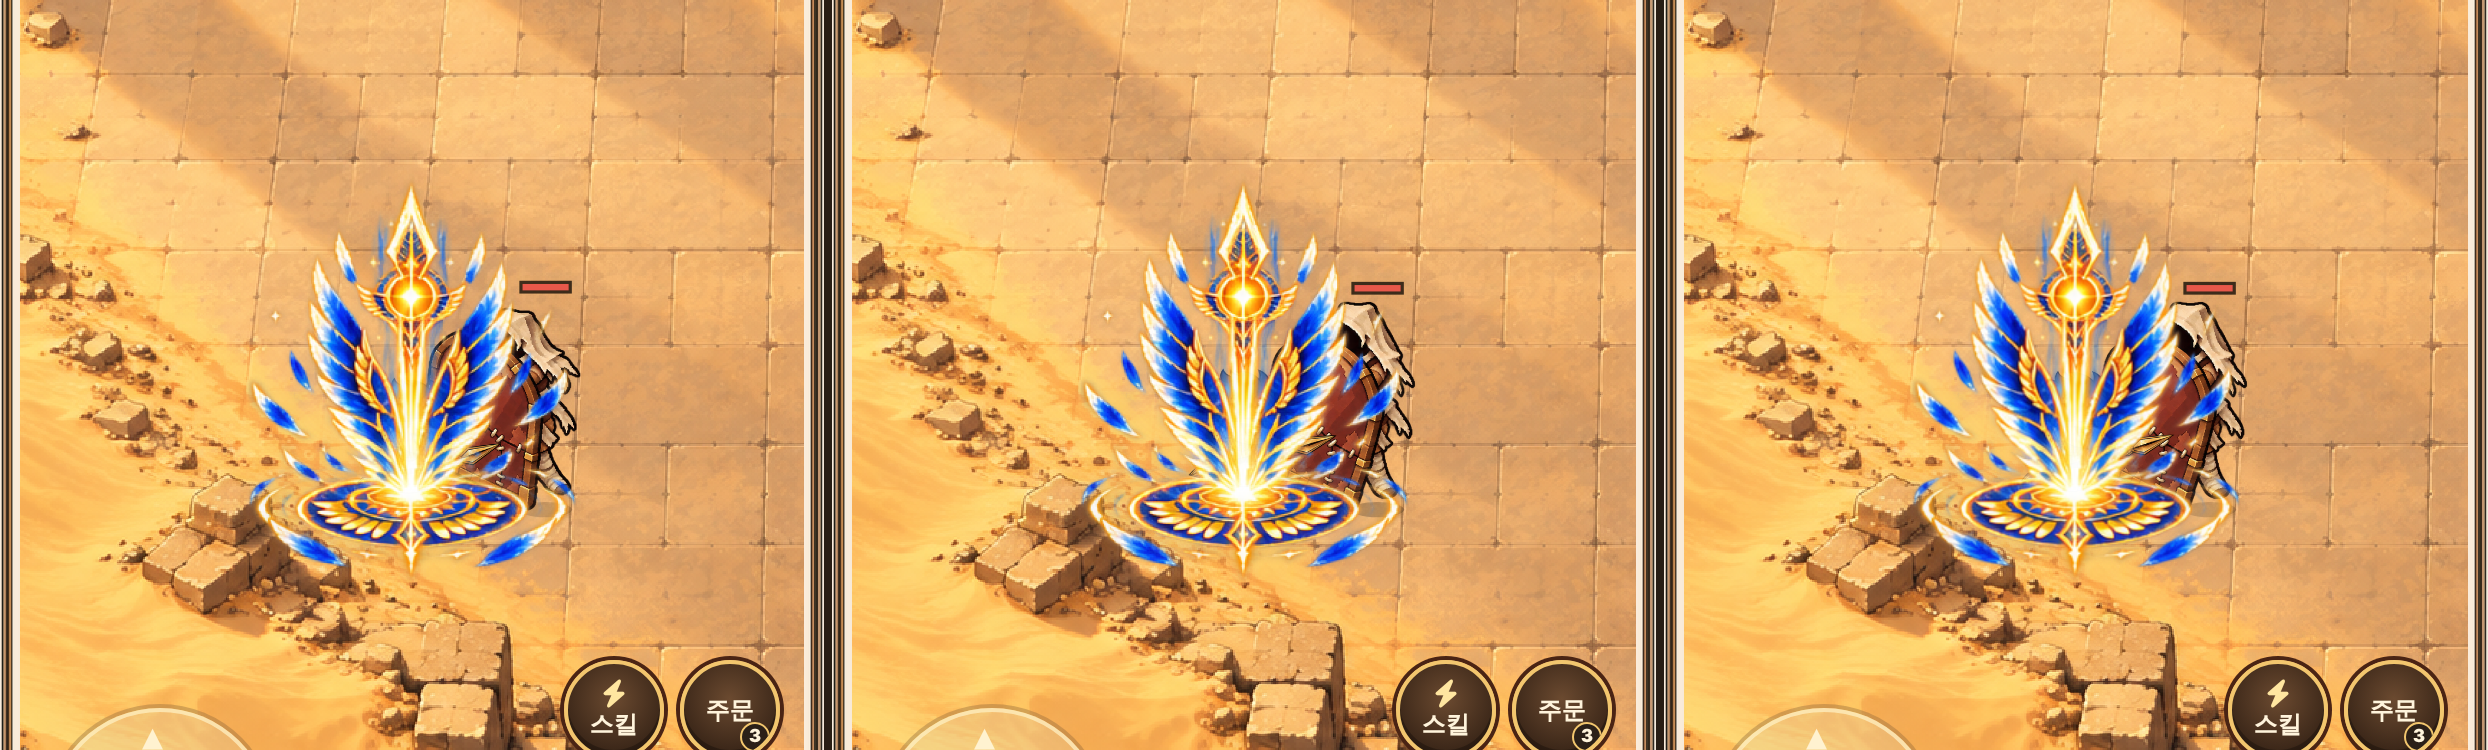
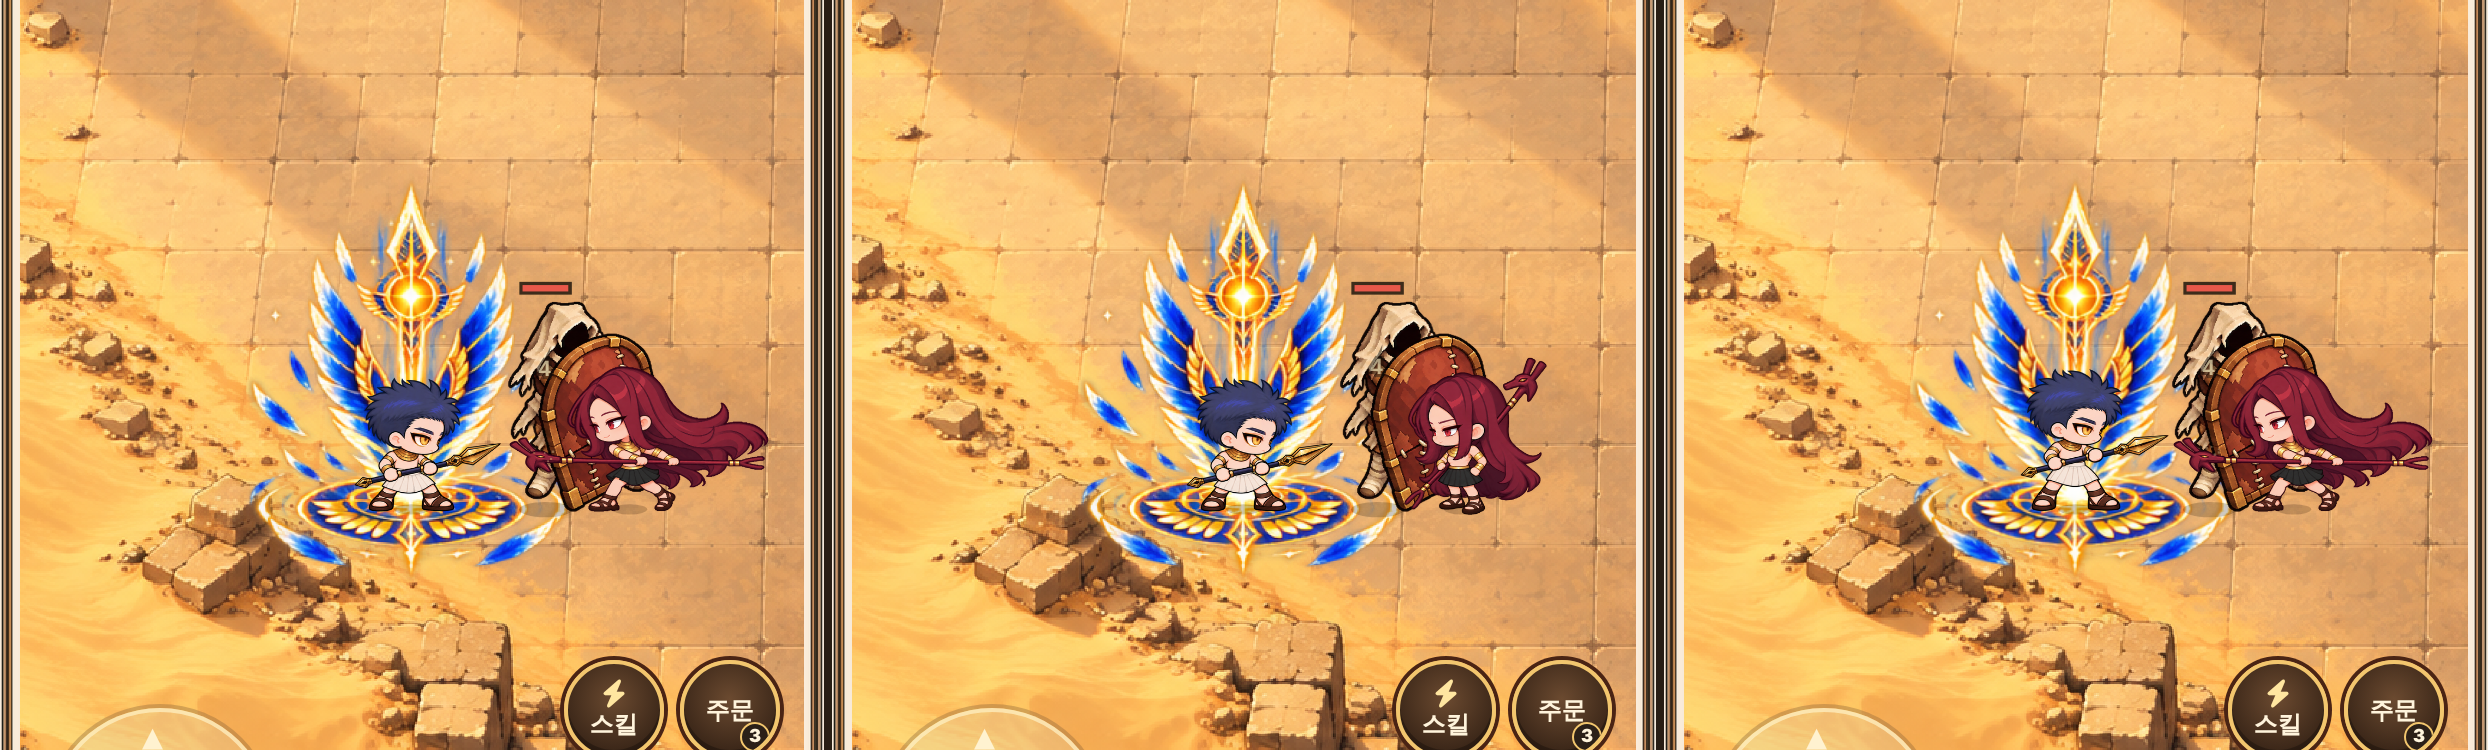
세트·호루스 궁 타격 범위를 그림의 주된 부분에 맞춤, 두 사람은 궁 위에 그림
- 타격 범위: 알파 160 이상(희미한 빛·잔광 제외) 98% 범위의 바닥 타원, 캐릭터 키 단위(fx.<who>.area)
  세트 폭 1.89·깊이 0.98, 호루스 폭 1.74·깊이 0.53(위로 솟는 날개는 높이라 제외)
- 세트 모래폭풍·호루스 충격파는 두 사람 바로 뒤 층: 몸·얼굴을 가리지 않고, 뒤에 선 것은 덮음
- 이미지 파일은 그대로(화면 표시 배율만 4배)
- 타격 범위를 겹친 실제 화면 캡처

Claude-Session: https://claude.ai/code/session_01VEprA6JeTcQVX6tKD4oAcT

Changed region(s): [[0.1238, 0.368, 0.3095, 0.736], [0.7737, 0.368, 0.9904, 0.736], [0.4333, 0.368, 0.619, 0.736]]

diff --git a/src/packs/duat/field.js b/src/packs/duat/field.js
@@ -611,13 +611,14 @@ function frontLine(o) {
 const LAND_GAP = 0.6;
 function room(o) { const h = shape(o); return (h.frontKind ? h.front || 0 : h.body || 0) * charTiles() + LAND_GAP; }
 // a 기술 around g with reach r: 'torso' / 'body' (a boss's fists) for everyone, 'shield' for Horus only (C안); else null
-function touches(o, g, r, horus = false) {
-    const a = hurtArea(o);
-    if (toTorso(a, g).d < r) return 'torso';
+// ry: an oval on the floor instead (a 궁's ring as drawn: r wide, ry deep), tested with the depth stretched to r
+function touches(o, g, r, horus = false, ry = r) {
+    const k = r / ry, a = hurtArea(o), sa = { ...a, y: g.y + (a.y - g.y) * k, ry: a.ry * k };
+    if (toTorso(sa, g).d < r) return 'torso';
     const f = frontLine(o);
     if (!f || (f.kind === 'shield' && !horus)) return null;
     const px = Math.min(Math.max(g.x, f.x0), f.x1);
-    return Math.hypot(px - g.x, f.y - g.y) < r ? f.kind : null;
+    return Math.hypot(px - g.x, (f.y - g.y) * k) < r ? f.kind : null;
 }
 // a blow's reach in front of her (the box the old check used on its middle: from just behind her feet out to reach,
 // 0.75 to either side) against its shapes: the torso ellipse, what it holds out. No wall between her and where it lands.
@@ -699,6 +700,9 @@ function charge(s, who, amt) {
 }
 function chargeSkill(s, who, n) { if (n > 0) { const u = U(); charge(s, who, Math.min(u.skillCap ?? 35, (u.skillFirst ?? 25) + (u.skillEach ?? 5) * (n - 1))); } }
 let storms = [], wards = {}, ultShows = [];   // 세트's storm going on, 소망's lotus wards (who → { left, until }), the pictures playing
+// where a 궁 hurts: the main part of its picture as drawn (fx.<who>.area, character heights; not the faint glow round it),
+// else the round reach r in tiles
+const ultArea = who => { const a = F().ult?.fx?.[who]?.area, k = U()[who] || {}; return a ? { rx: a.rx * charTiles(), ry: a.ry * charTiles() } : { rx: k.r ?? 3, ry: k.r ?? 3 }; };
 const ultReady = s => { const u = U(); return (gauge(s)[leadOf(s)] || 0) >= (u.max || 100) && me.cdUlt <= now(); };
 export function ult() {
     const s = getState();
@@ -708,11 +712,13 @@ export function ult() {
     gauge(s)[who] = 0; me.cdUlt = now() + (u.cd ?? 12); saveState();   // spent the moment it goes (and kept so)
     me.act = { name: 'skill', at: now(), until: now() + SHOW.skill }; note({ ev: 'press', what: 'ult', who });
     ultShows.push({ who, at: now(), lead: true, x: f.x, y: f.y, pair: who === 'somang' && w && !mate.down ? [who, w] : null });
-    if (who === 'set') storms.push({ who, lead: true, until: now() + (k.time ?? 3), next: now(), r: k.r ?? 2.6, every: k.every ?? 0.5, n: Math.max(1, Math.round(power(s, who) * (k.mult ?? 0.8))), push: k.push ?? 0.3 });
+    const ar = ultArea(who);
+    if (who === 'set') areas.push({ x: f.x, y: f.y, r: ar.rx, ry: ar.ry, who, at: now() });
+    if (who === 'set') storms.push({ who, lead: true, until: now() + (k.time ?? 3), next: now(), r: ar.rx, ry: ar.ry, every: k.every ?? 0.5, n: Math.max(1, Math.round(power(s, who) * (k.mult ?? 0.8))), push: k.push ?? 0.3 });
     else if (who === 'horus') {   // one strong blow round him: each one once
         const n = Math.round(power(s, who) * (k.mult ?? 4));
-        areas.push({ x: f.x, y: f.y, r: k.r ?? 3.2, who, at: now() });
-        for (const o of mobs) if (o.st !== 'dead' && touches(o, f, k.r ?? 3.2, true)) damage(s, o, n, k.push ?? 1, f, 'ult', who);
+        areas.push({ x: f.x, y: f.y, r: ar.rx, ry: ar.ry, who, at: now() });
+        for (const o of mobs) if (o.st !== 'dead' && touches(o, f, ar.rx, true, ar.ry)) damage(s, o, n, k.push ?? 1, f, 'ult', who);
     } else {   // 연꽃 방패: each of the two takes up to `ward` of harm (not no harm at all), until it is used up or ends
         const until = now() + (k.time ?? 6);
         for (const x of [who, w]) if (x && !(x === w && mate.down)) wards[x] = { left: k.ward ?? 8, max: k.ward ?? 8, until };
@@ -733,7 +739,7 @@ function stepUlt(s) {
         st.x = c.x; st.y = c.y;
         while (st.next <= t && st.next <= st.until) {
             st.next += st.every;
-            for (const o of mobs) if (o.st !== 'dead' && touches(o, c, st.r)) damage(s, o, st.n, st.push, c, 'ult', st.who);
+            for (const o of mobs) if (o.st !== 'dead' && touches(o, c, st.r, false, st.ry)) damage(s, o, st.n, st.push, c, 'ult', st.who);
         }
     }
     storms = storms.filter(st => t <= st.until);
@@ -877,6 +883,8 @@ onDraw(scene => {
     }
     for (const o of mobs) scene.extra.push({ x: o.x, y: o.y, draw: (g, sx, sy, z, ts) => drawMob(g, o, sx, sy, z, ts) });
     scene.extra.push({ x: 0, y: -1e6, draw: (g, sx, sy, z, ts) => drawUlt(g, z, ts, -sx, -(sy + 1e6 * ts), true) });
+    const y0 = Math.min(player.y, follower().y) - 0.01;
+    scene.extra.push({ x: 0, y: y0, draw: (g, sx, sy, z, ts) => drawUlt(g, z, ts, -sx, y0 * ts - sy) });
     scene.extra.push({ x: 0, y: 1e6, draw: (g, sx, sy, z, ts) => drawTop(g, z, ts, sx, sy) });
 });
 // is the frame's pixel (fx, fy) opaque — the frame read once, at a quarter of its size (tests whether she is hidden)
@@ -988,7 +996,7 @@ function drawRanges(g, z, ts, cx, cy) {
     for (const a of areas.slice(-4)) {
         const [x, y] = P(a.x, a.y);
         g.strokeStyle = a.who === 'set' ? '#ffd030' : '#ff8a20'; g.fillStyle = a.who === 'set' ? 'rgba(255,208,48,.12)' : 'rgba(255,138,32,.14)';
-        g.beginPath(); g.arc(x, y, a.r * ts, 0, Math.PI * 2); g.fill(); g.stroke();
+        g.beginPath(); g.ellipse(x, y, a.r * ts, (a.ry ?? a.r) * ts, 0, 0, Math.PI * 2); g.fill(); g.stroke();
         g.strokeStyle = '#ff40d0'; g.beginPath(); g.moveTo(x - 6 * z, y - 6 * z); g.lineTo(x + 6 * z, y + 6 * z); g.moveTo(x + 6 * z, y - 6 * z); g.lineTo(x - 6 * z, y + 6 * z); g.stroke();
     }
     g.restore();
@@ -996,13 +1004,14 @@ function drawRanges(g, z, ts, cx, cy) {
 // 궁: its picture played once (the approved frames, their own times, field.ult.fx), then what goes on shows on the
 // floor: the storm a sand ring round 세트 while it lasts, each lotus ward a gold ring under the one it keeps, as thick
 // as what is left of it
-// under: 소망's lotus and the wards on the ground, under the people (they stand inside its ring); the rest over them
+// under: 소망's lotus and the wards on the ground, under everyone (the two stand inside its ring); otherwise 세트's storm and
+// 호루스's shock wave, just behind the two (user 10-19: the 궁 never hides his body or face; what stands further back it covers)
 function drawUlt(g, z, ts, cx, cy, under = false) {
     const s = getState(), t = now(), at = who => (s && who === leadOf(s) ? feet() : { x: follower().x + 0.5, y: follower().y + 0.8 });
     if (!under) for (const st of storms) {
         const x = st.x * ts - cx, y = st.y * ts - cy, k = 0.5 + 0.5 * Math.sin(t * 6);
         g.save(); g.setLineDash([10 * z, 7 * z]); g.lineDashOffset = -t * 40 * z; g.lineWidth = 3 * z;
-        g.strokeStyle = `rgba(226,189,124,${0.55 + 0.3 * k})`; g.beginPath(); g.ellipse(x, y, st.r * ts, st.r * ts * 0.5, 0, 0, Math.PI * 2); g.stroke(); g.restore();
+        g.strokeStyle = `rgba(226,189,124,${0.55 + 0.3 * k})`; g.beginPath(); g.ellipse(x, y, st.r * ts, (st.ry ?? st.r * 0.5) * ts, 0, 0, Math.PI * 2); g.stroke(); g.restore();
     }
     if (under) for (const [who, wd] of Object.entries(wards)) {
         const p = at(who), x = p.x * ts - cx, y = p.y * ts - cy;
@@ -1027,7 +1036,6 @@ function drawTop(g, z, ts, ox, oy) {
     // ox, oy: where (0, 1e6) landed; the camera is ox, oy − 1e6·ts
     const cx = -ox, cy = -(oy - 1e6 * ts), t = now();
     if (showRanges) drawRanges(g, z, ts, cx, cy);
-    drawUlt(g, z, ts, cx, cy);
     // sand shots: a small bunch of grains turning about its middle, a few dropping behind, a shadow under it
     for (const b of bolts) {
         const x = b.x * ts - cx, y = (b.y - BOLT_LIFT) * ts - cy, gy = b.y * ts - cy, R = 0.11 * ts, sp = Math.hypot(b.vx, b.vy) || 1;
@@ -1175,8 +1183,14 @@ export function testStrikeBy(who) { const s = getState(), o = mobs[0]; if (!s ||
 // tests only: someone hit by a creature's blow of `atk` (as a creature's blow does)
 export function testHit(who, atk) { const s = getState(); if (s) hurt(s, who, atk); }
 // tests only: the 궁 gauges (read, or set some), what is going on with the 궁
-// tests only: one 궁 picture held still `ms` into its playing, round the one in front (the shown sizes compared)
-export function testUltFrame(who, ms) { const f = feet(), w = withOf(getState()); ultShows = ms == null ? [] : [{ who, at: now(), hold: ms, x: f.x, y: f.y, pair: who === 'somang' && w ? [who, w] : null }]; }
+// tests only: one 궁 picture held still `ms` into its playing, round the one in front (the shown sizes compared), and
+// where it hurts (drawn with testRanges)
+export function testUltFrame(who, ms) {
+    const f = feet(), w = withOf(getState());
+    ultShows = ms == null ? [] : [{ who, at: now(), hold: ms, x: f.x, y: f.y, pair: who === 'somang' && w ? [who, w] : null }];
+    areas.length = 0;
+    if (ms != null && who !== 'somang') { const ar = ultArea(who); areas.push({ x: f.x, y: f.y, r: ar.rx, ry: ar.ry, who, at: now() }); }
+}
 export function testUlt(set) { const s = getState(); if (set) { const { cd, ...g } = set; Object.assign(gauge(s), g); if (cd === 0) me.cdUlt = 0; } return { g: { ...gauge(s) }, ready: ultReady(s), cd: +Math.max(0, me.cdUlt - now()).toFixed(2), storms: storms.length, wards: JSON.parse(JSON.stringify(wards)), shield: me.shield > now(), shows: ultShows.length }; }
 // tests only: how deep a point (feet, tiles) is in this map's entrance safe zones, and the zones
 export const testSafe = (x, y) => safeDepth({ x, y });

diff --git a/tools/art/ult-fx-pack.py b/tools/art/ult-fx-pack.py
@@ -5,7 +5,7 @@
 잘린 위치는 기준점(anchor)에 반영해 data/duat.json field.ult.fx.<who>에 적는다:
   frames: [{file, w, h, ax, ay, ms}]  (ax, ay = 잘린 그림 안의 기준점 px, ms = 이 프레임 재생 시간)
   heightsPerPx: 원본 1px이 캐릭터 키 몇 개로 그려지는지(가장 큰 장면의 또렷한 부분 긴 변 = 캐릭터 키 SPAN배, 시제품 값)
-  python3 tools/art/ult-fx-pack.py
+  python3 tools/art/ult-fx-pack.py           (--area: 타격 범위 area만 다시 계산)
 """
 import hashlib, json, os
 import numpy as np
@@ -46,11 +46,43 @@ def main():
         print(who, f['frame'], (x1 - x0, y1 - y0))
     for who, v in fx.items():
         v['heightsPerPx'] = round(SPAN / max(fr.pop('seen') for fr in v['frames']), 7)
+        if who in FLOOR: v['area'] = area(who, v)
     p = os.path.join(ROOT, 'data', 'duat.json')
     d = json.load(open(p))
     d['field'].setdefault('ult', {})['fx'] = fx
     open(p, 'w').write(json.dumps(d, ensure_ascii=False, indent=2) + '\n')
 
 
+# where 세트's storm and 호루스's shock wave hurt (user 10-19): the main part of the picture as drawn — alpha MAIN and up,
+# not the faint glow or after-light round it — as an oval on the floor round the anchor, in character heights:
+#   rx: how far out to either side (98th percentile of its pixels, over the frames: the widest),
+#   ry: how deep — the storm is a flat whirl on the ground (half its whole height round the anchor); the shock wave's
+#       ground ring is what lies below the anchor (above it the wings rise, height not floor)
+MAIN, FLOOR = 160, {'set': 'both', 'horus': 'below'}
+
+
+def area(who, v):
+    rx = ry = 0
+    for f in v['frames']:
+        a = np.asarray(Image.open(os.path.join(ROOT, 'data', f['file'])).convert('RGBA'))[..., 3]
+        ys, xs = np.nonzero(a >= MAIN)
+        if not len(xs): continue
+        dy = ys - f['ay']
+        below = np.percentile(dy[dy > 0], 98) if (dy > 0).any() else 0
+        above = np.percentile(-dy[dy < 0], 98) if (dy < 0).any() else 0
+        rx = max(rx, np.percentile(np.abs(xs - f['ax']), 98))
+        ry = max(ry, (below + above) / 2 if FLOOR[who] == 'both' else below)
+    return {'rx': round(float(rx) * v['heightsPerPx'], 2), 'ry': round(float(ry) * v['heightsPerPx'], 2)}
+
+
+def only_area():
+    p = os.path.join(ROOT, 'data', 'duat.json')
+    d = json.load(open(p))
+    for who, v in d['field']['ult']['fx'].items():
+        if who in FLOOR: v['area'] = area(who, v); print(who, v['area'])
+    open(p, 'w').write(json.dumps(d, ensure_ascii=False, indent=2) + '\n')
+
+
 if __name__ == '__main__':
-    main()
+    import sys
+    only_area() if '--area' in sys.argv else main()

diff --git a/tools/art/ult-fx-candidates.py b/tools/art/ult-fx-candidates.py
@@ -32,7 +32,7 @@ def main(out):
                 os.makedirs(os.path.join(out, os.path.dirname(name)), exist_ok=True)
                 im.save(os.path.join(out, name), optimize=True)
                 frames.append({**f, 'file': name, 'w': im.width, 'h': im.height, 'ax': round(f['ax'] * k, 2), 'ay': round(f['ay'] * k, 2)})
-            t[who] = {'frames': frames, 'heightsPerPx': v['heightsPerPx'] / k}
+            t[who] = {**v, 'frames': frames, 'heightsPerPx': v['heightsPerPx'] / k}
             print(tag, who, [f'{f["w"]}x{f["h"]}' for f in frames][:2])
         table[tag] = t
     json.dump(table, open(os.path.join(out, 'fx.json'), 'w'), ensure_ascii=False, indent=1)
